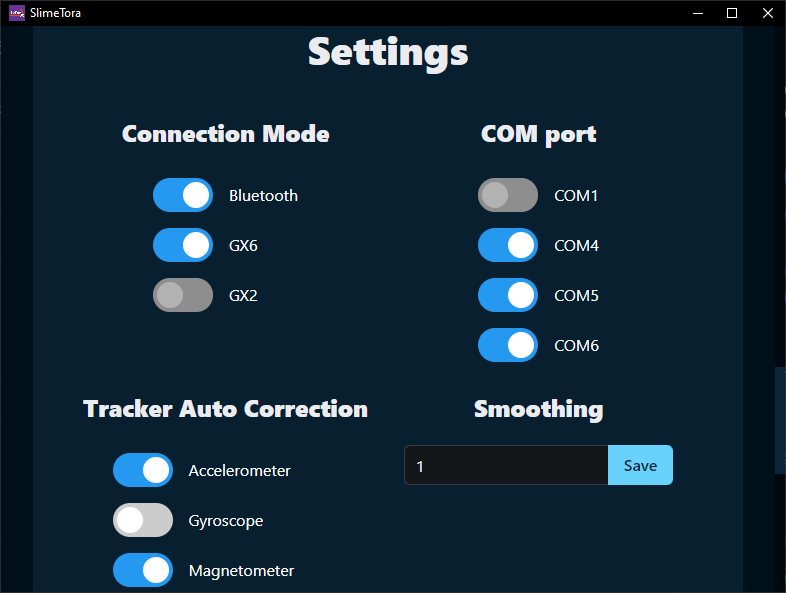
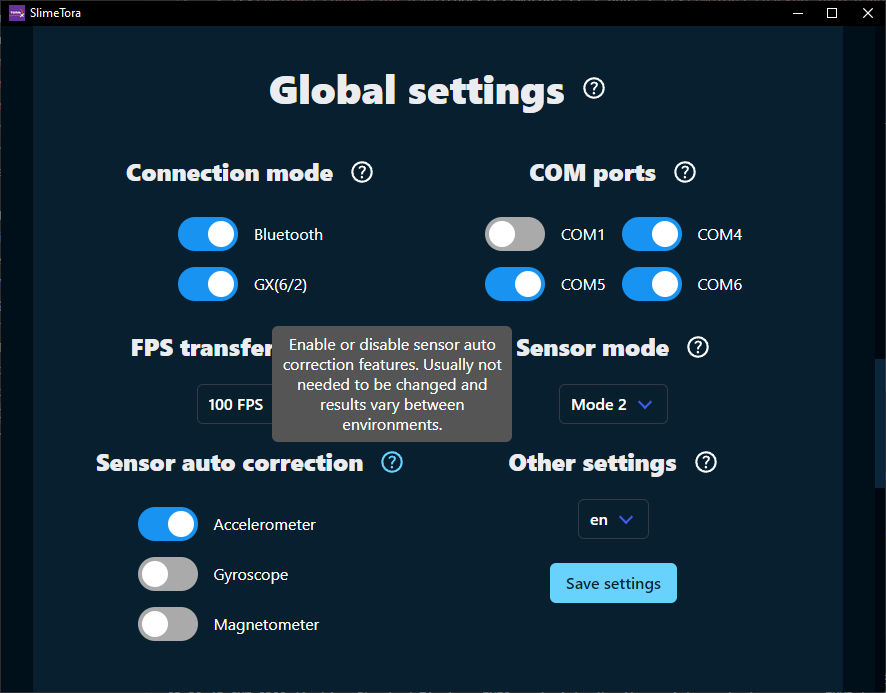
Update screenshots

diff --git a/README.md b/README.md
@@ -13,23 +13,25 @@ This fork rewrites improves on the stability and performance of the app by rewri
 
 # Screenshots
 
-| SlimeTora connection page | SlimeTora tracker info page |
+| Connection section | Tracker info section |
 |:-:|:-:|
-| ![SlimeTora connection page](docs/slimetora_ss_1.png) | ![SlimeTora tracker info page](docs/slimetora_ss_2.png) |
-| SlimeTora settings page | SlimeTora about page |
-| ![SlimeTora settings page](docs/slimetora_ss_3.png) | ![SlimeTora about page](docs/slimetora_ss_4.png) |
+| ![SlimeTora Connection section](docs/slimetora_ss_1.png) | ![Tracker Info section](docs/slimetora_ss_2.png) |
+|  Global settings section | Per-tracker settings page (chest) |
+| ![SlimeTora global settings section](docs/slimetora_ss_3.png) | ![SlimeTora per-tracker (chest) settings page](docs/slimetora_ss_4.png) |
+| About section | Debugging section |
+| ![SlimeTora about section](docs/slimetora_ss_5.png) | ![SlimeTora debugging section](docs/slimetora_ss_6.png) |
 
 # New features
-+ Entire frontend and backend rewrite (with [Bulma](https://bulma.io/) and [haritorax-interpreter](https://github.com/JovannMC/haritorax-interpreter))
++ Entire frontend and backend rewrite (with [Bulma](https://bulma.io/) and[haritorax-interpreter](https://github.com/JovannMC/haritorax-interpreter))
   + The program now has a new UI, the code is cleaner and more maintainable, and should hopefully improve stability/performance.
 + Package app files with `asar`
   + No need to extract thousands of files anymore 😅
 + `Bluetooth` and `GX(6/2)` support (with all at the same time supported)
   + Welcome elbow tracker users!
 + Set tracker settings per-tracker (partial support)
-  + Knee trackers currently have issues, and Bluetoth is not yet supported. Both are disabled automatically.
+  + Knee trackers currently have issues, and Bluetooth is not yet supported. Both are disabled automatically.
 + Localization support
-  + You can help translate the program! Clone the repo and make a new file under `/src/languages/` with the two-letter language identifier (ending with .json)!
+  + You can help translate the program! Clone the repo and make a new file under `/src/static/languages/` with the two-letter language identifier (ending with .json, e.g. `jp.json`)!
 + Linux support
   + This was done as SlimeVR is supported on Linux, and the first time HaritoraX trackers work on Linux!
   + ..however this is not tested at all. Please let me know if there are issues.
